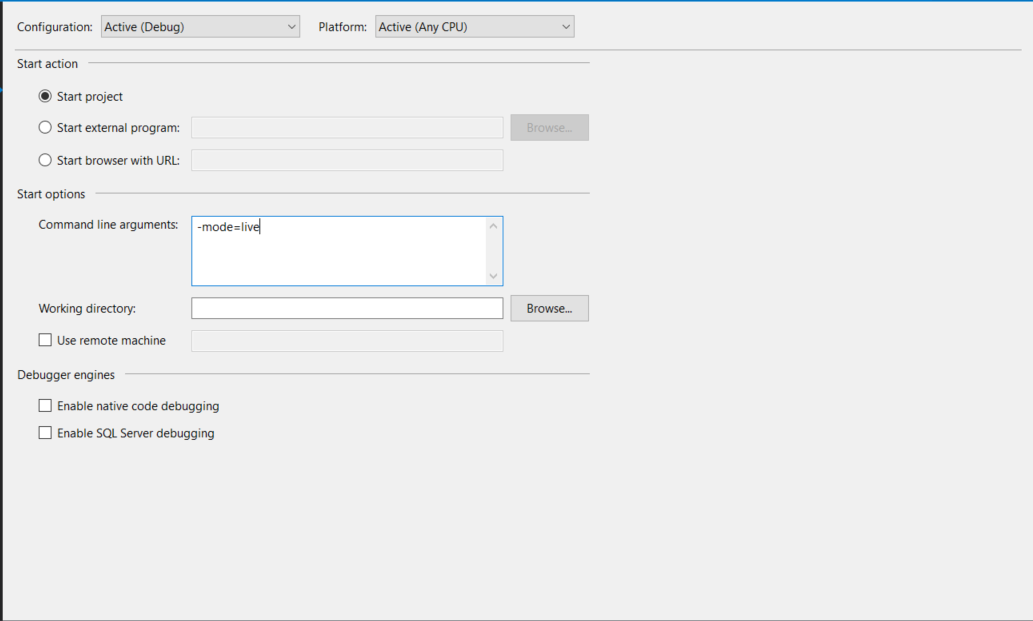
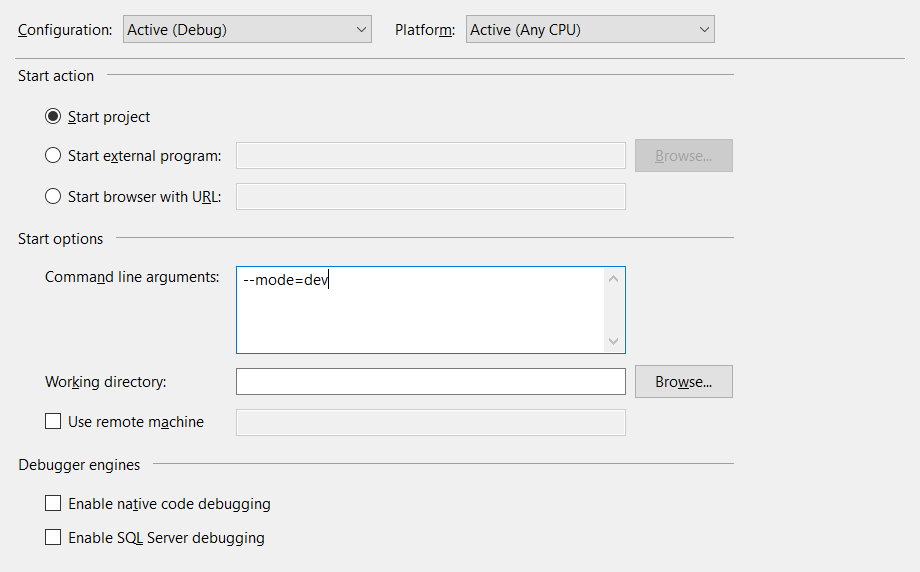
Adding docs

diff --git a/Neutronium Simple Application/App.xaml.cs b/Neutronium Simple Application/App.xaml.cs
@@ -5,7 +5,6 @@ using Neutronium.WPF;
 using Neutronium.BuildingBlocks.SetUp;
 using System.Diagnostics;
 using System.Windows;
-using Neutronium.BuildingBlocks.SetUp.NpmHelper;
 
 namespace Neutronium_Simple_Application {
     /// <summary>
@@ -29,9 +28,7 @@ namespace Neutronium_Simple_Application {
 
         protected override void OnStartUp(IHTMLEngineFactory factory) {
 #if DEBUG
-            _ApplicationSetUpBuilder.OnRunnerMessageReceived += OnRunnerMessageReceived;
-            SetUpViewModel.InitFromArgs(Args).Wait();
-            Trace.WriteLine($"Starting with set-up: {SetUpViewModel}");
+            SetUpForDeveloppment();
 #else
             SetUpViewModel.InitForProduction();
 #endif
@@ -39,7 +36,19 @@ namespace Neutronium_Simple_Application {
             base.OnStartUp(factory);
         }
 
-        private void OnRunnerMessageReceived(object sender, RunnerMessageEventArgs e) {
+        private void SetUpForDeveloppment()
+        {
+            _ApplicationSetUpBuilder.OnRunnerMessageReceived += OnRunnerMessageReceived;
+            _ApplicationSetUpBuilder.OnArgumentParsingError += OnArgumentParsingError;
+            SetUpViewModel.InitFromArgs(Args).Wait();
+            Trace.WriteLine($"Starting with set-up: {SetUpViewModel}");
+        }
+
+        private void OnArgumentParsingError(object sender, MessageEventArgs e) {
+            Trace.WriteLine($"Error parsing arguments, unexpected item: {e.Message}");
+        }
+
+        private void OnRunnerMessageReceived(object sender, MessageEventArgs e) {
             Trace.WriteLine($"Npm runner log: {e.Message}");
         }
 

diff --git a/README.md b/README.md
@@ -10,4 +10,62 @@ This project is a template application for Neutronium Vue project.<br>
 
 ## Features
 
+### npm script
+
+* `npm run serve`
+
+    Serve files for Neutronium hot-reload.
+
+* `npm run live`
+
+    Serve files for Neutronium hot-reload.
+
+* `npm run build`
+
+    Build files to be used in Neutronium application.
+
+### Command line argument
+
+        Usage:
+            --mode=live
+            -m=dev --url=http://localhost:9090/index.html
+            -u=http://localhost:9091/index.html
+
+        Options:
+            -m --mode=(live|dev|prod)    Set application mode.
+            -u --url=<uri>   Set view url
+
+![Screen shot](./__doc__/Configuration.png)
+### Application mode
+
+* Live:
+
+        Debug mode with hot-reload activated using file served by `npm run live` scripts.
+
+* Dev:
+
+        Debug mode using local files.
+
+* Prod:
+
+        No debug, using local files.
+
+
+### Injected context command
+
+#### To Live
+
+* Only available in `dev` mode.
+* Switch to `live` mode by running `npm run live` and reloading the page using the served files.
+
+![Screen shot](./__doc__/screen-3.png)
+![Screen shot](./__doc__/screen-4.png)
+
+#### Reload
+
+* Only available in `live` mode.
+* Reload the page. Maybe useful on some scenario when page does not automatically reload.
+
+![Screen shot](./__doc__/screen-2.png)
+
 
